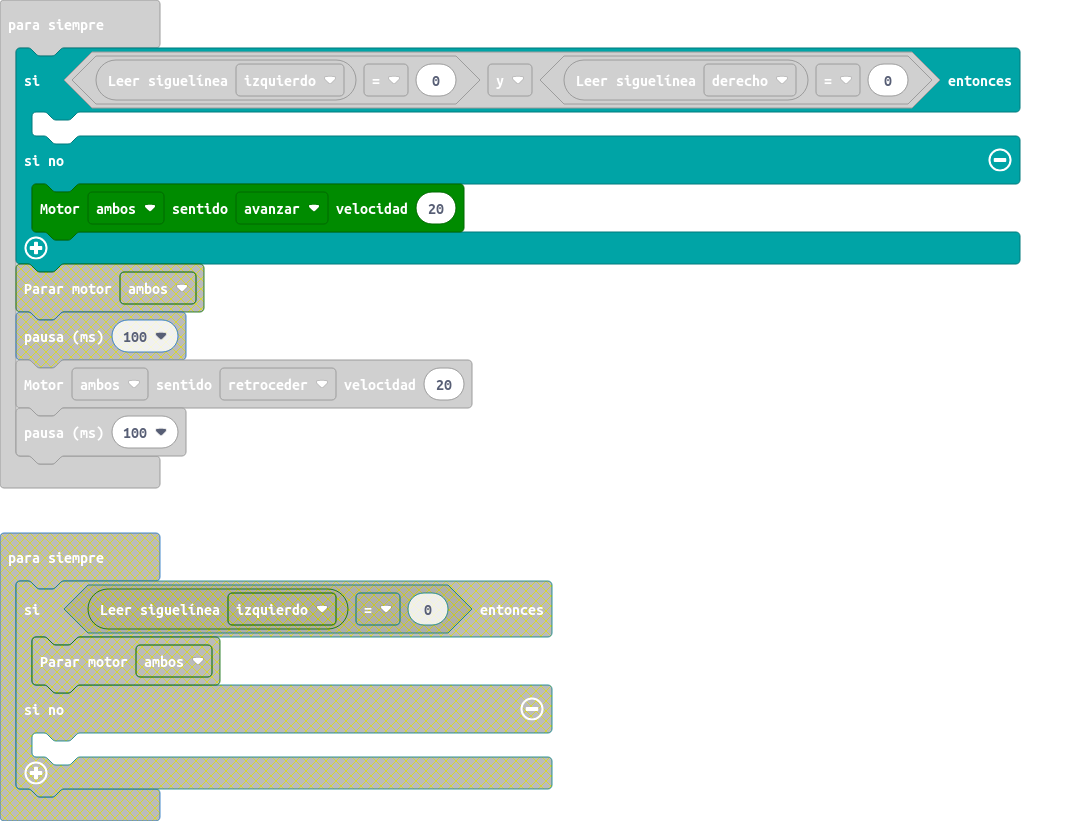
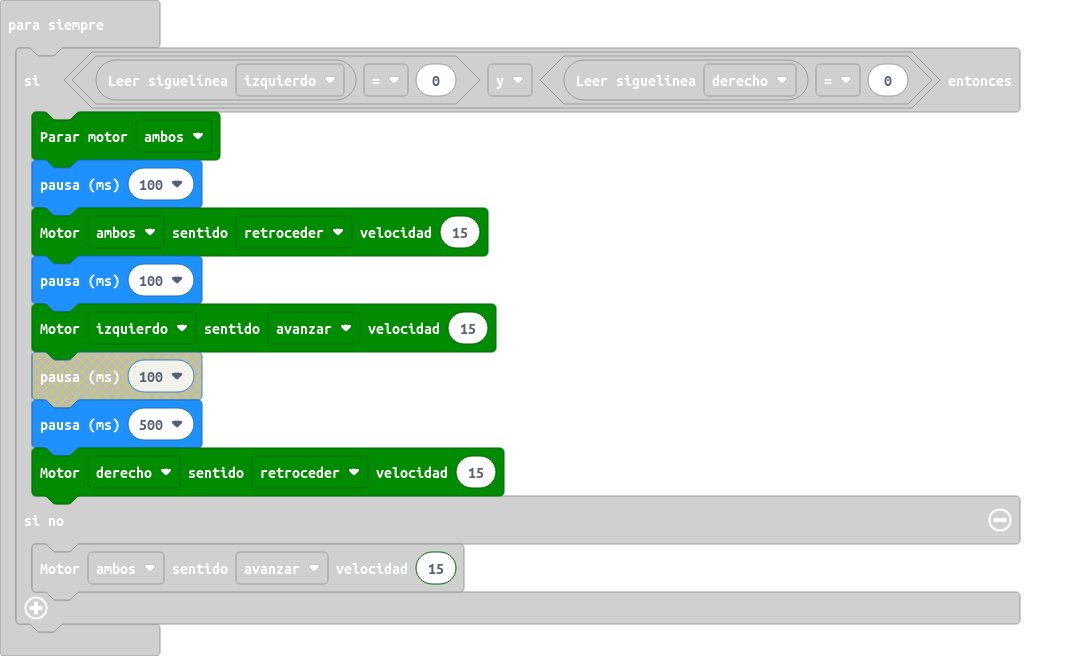
ññññññññññññññññññ

diff --git a/main.ts b/main.ts
@@ -1,8 +1,13 @@
 basic.forever(function () {
     if (maqueen.readPatrol(maqueen.Patrol.PatrolLeft) == 0 && maqueen.readPatrol(maqueen.Patrol.PatrolRight) == 0) {
-        maqueen.motorRun(maqueen.Motors.All, maqueen.Dir.CCW, 20)
+        maqueen.motorStop(maqueen.Motors.All)
         basic.pause(100)
+        maqueen.motorRun(maqueen.Motors.All, maqueen.Dir.CCW, 15)
+        basic.pause(100)
+        maqueen.motorRun(maqueen.Motors.M1, maqueen.Dir.CW, 15)
+        basic.pause(500)
+        maqueen.motorRun(maqueen.Motors.M2, maqueen.Dir.CCW, 15)
     } else {
-        maqueen.motorRun(maqueen.Motors.All, maqueen.Dir.CW, 20)
+        maqueen.motorRun(maqueen.Motors.All, maqueen.Dir.CW, 15)
     }
 })
